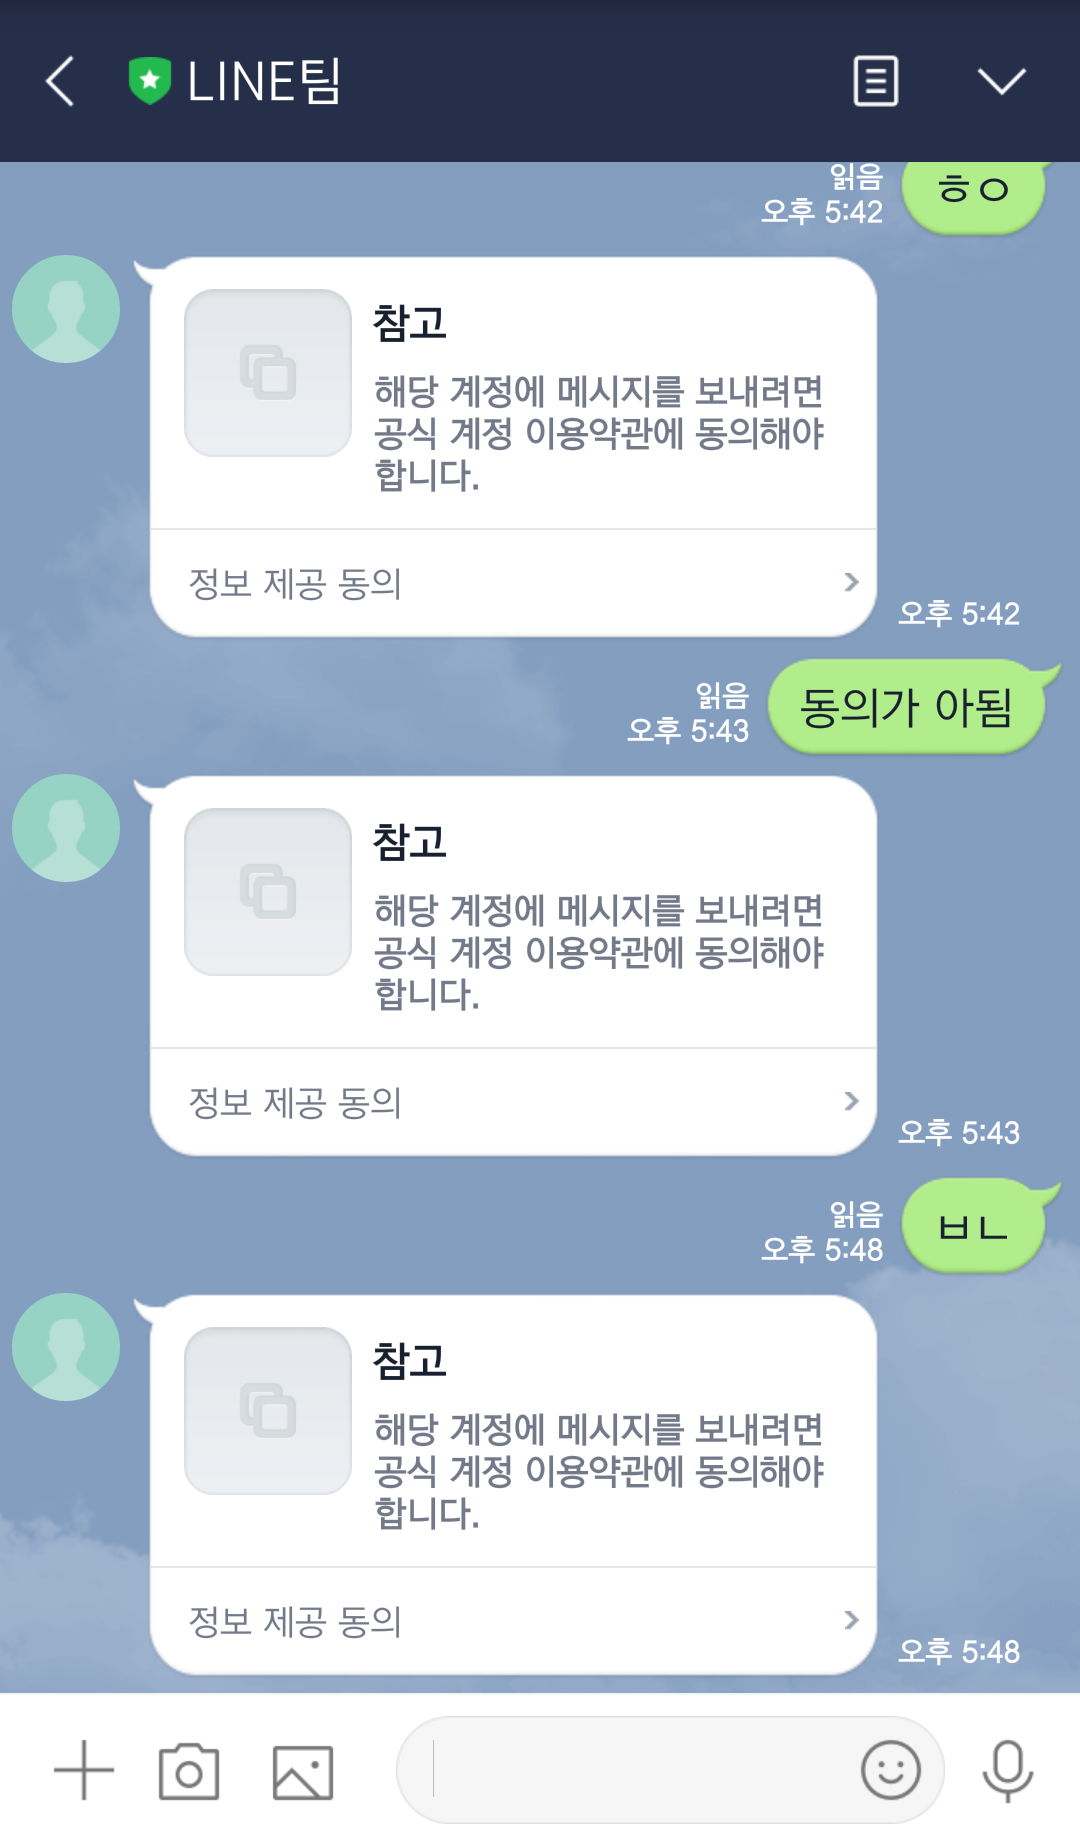
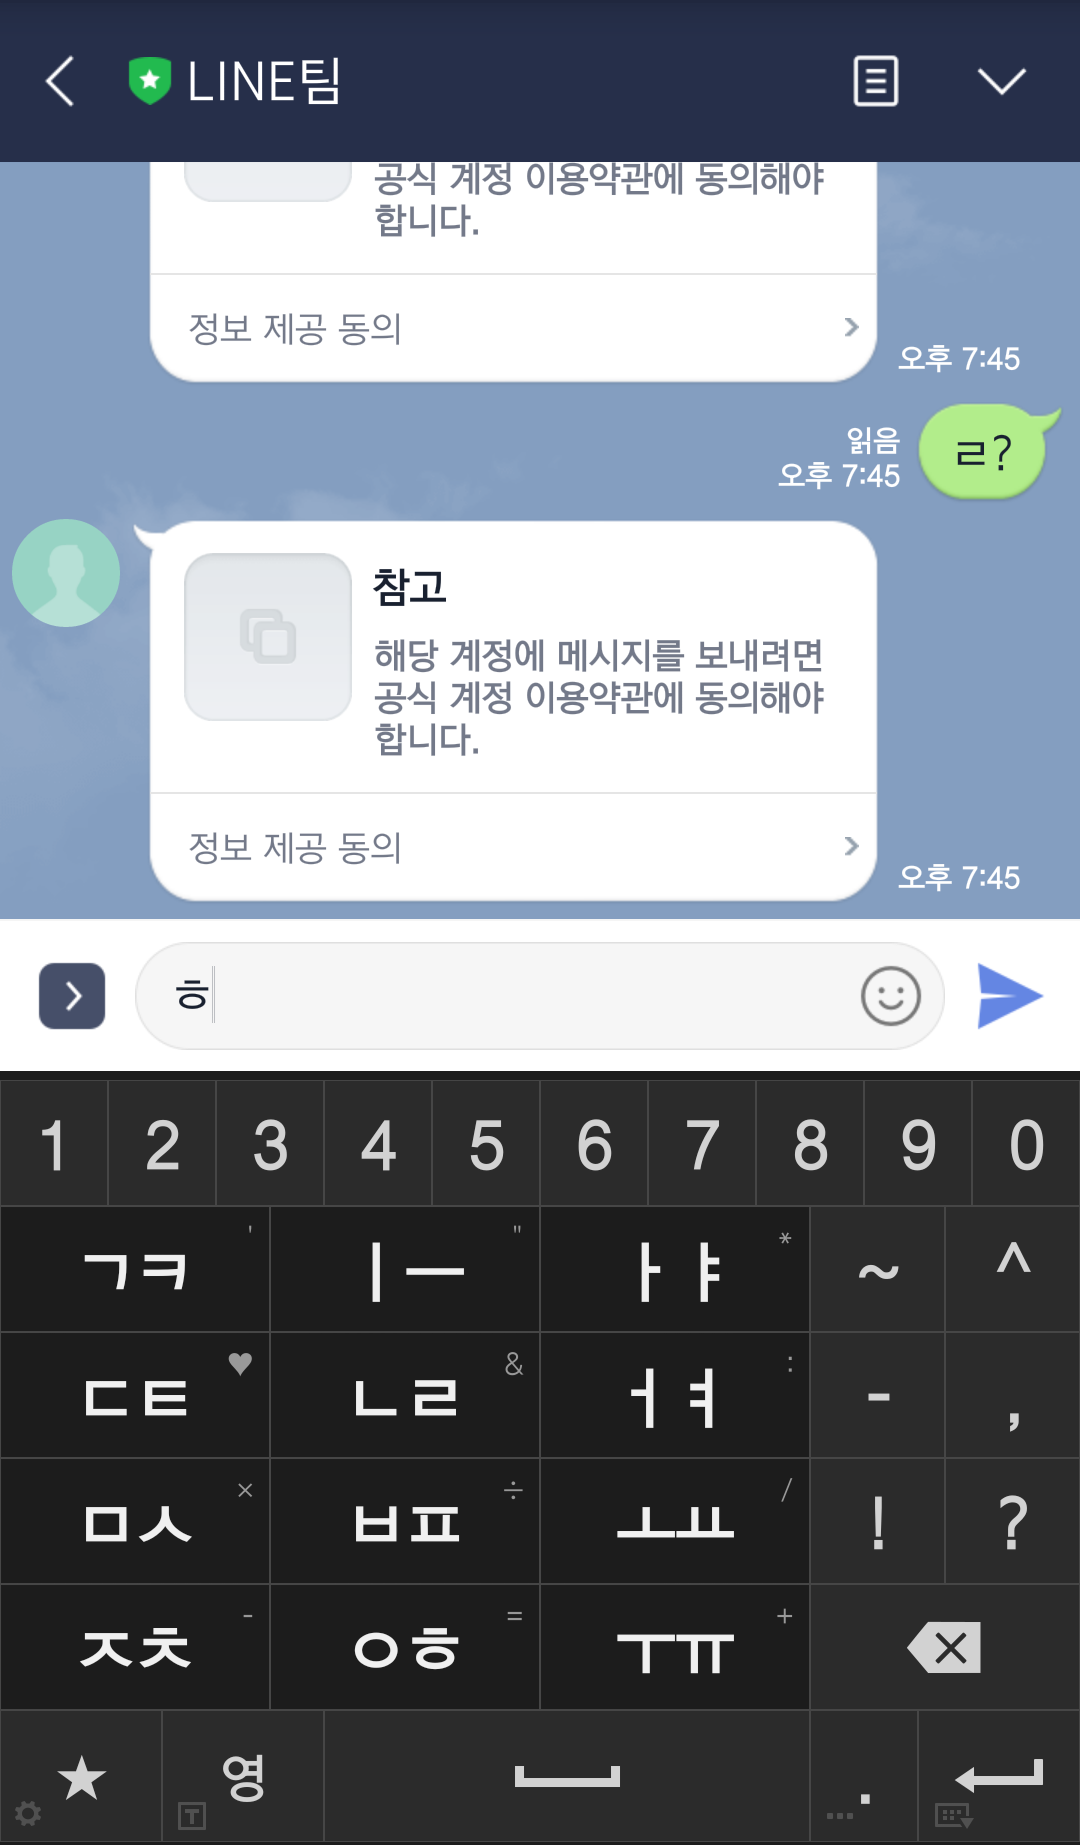
200805 line clone

diff --git a/css/screens/chatroom.css b/css/screens/chatroom.css
@@ -1,3 +1,121 @@
 #chat-screen {
   background-color: skyblue;
+  height: 11000vh;
+}
+
+#chat-screen .status-bar {
+  z-index: 2;
+}
+#chat-screen .alt-header {
+  z-index: 1;
+}
+
+.main-chat {
+  padding-top: 100px;
+  display: flex;
+  flex-direction: column;
+  align-items: center;
+}
+
+.chat__timestamp {
+  background-color: rgba(0, 0, 0, 0.3);
+  padding: 10px 15px;
+  border-radius: 20px;
+  margin: 30px;
+  color: white;
+}
+
+.message-row {
+  width: 100%;
+  display: flex;
+  margin-bottom: 25px;
+}
+.message-row img {
+  border-radius: 50%;
+  width: 50px;
+  height: 50px;
+  margin-right: 15px;
+}
+
+.message__author,
+.message__time {
+  opacity: 0.7;
+}
+.message__info {
+  display: flex;
+  align-items: flex-end;
+}
+.message__bubble {
+  margin-top: 10px;
+  background-color: white;
+  padding: 10px 15px;
+  border-radius: 15px;
+  border-top-left-radius: 0;
+  margin-right: 10px;
+}
+
+.message-row--own {
+  justify-content: flex-end;
+}
+
+.message-row--own .message__bubble {
+  background-color: var(--linegreen);
+  border-radius: 15px;
+  border-top-right-radius: 0;
+  margin-left: 10px;
+}
+.message-row--own .message__info {
+  flex-direction: row-reverse;
+}
+
+.reply {
+  color: var(--lineblue);
+  background-color: white;
+  position: fixed;
+  bottom: 0;
+  width: 100%;
+  display: flex;
+  justify-content: space-between;
+  align-items: center;
+  padding: 10px 0px;
+  box-sizing: border-box;
+}
+.reply button {
+  margin: 0;
+  padding: 0;
+  border: 0;
+  background-color: white;
+  color: var(--lineblue);
+}
+
+.reply .reply__column {
+  display: flex;
+  justify-content: center;
+}
+.reply .reply__column:first-child {
+  width: 10%;
+}
+.reply .reply__column:nth-child(2) {
+  width: 80%;
+  position: relative;
+}
+.reply .reply__column:last-child {
+  width: 10%;
+}
+
+.reply input {
+  width: 100%;
+  border: var(--linegray);
+  border-radius: 20px;
+  padding: 10px;
+  background-color: rgb(241, 241, 241);
+  font-size: 15px;
+  box-sizing: border-box;
+}
+
+.reply .reply__column:nth-child(2) i {
+  position: absolute;
+  top: 13px;
+  right: 10px;
+  opacity: 0.7;
 }

diff --git a/chatroom.html b/chatroom.html
@@ -31,7 +31,7 @@
       </div>
     </div>
 
-    <header class="screen-header">
+    <header class="screen-header screen-header__chatroom">
       <h2 class="screen-header__title">
         <a href="chats.html"><i class="fas fa-chevron-left"> </i></a>
         <span>레이너</span>
@@ -45,6 +45,48 @@
         </span>
       </div>
     </header>
+
+    <main class="main-screen main-chat">
+      <div class="chat__timestamp">
+        오늘
+      </div>
+      <div class="message-row message-row--own">
+        <div class="message-row__content">
+          <div class="message__info">
+            <span class="message__bubble">아니, 이게 누구신가</span>
+            <span class="message__time">오전 2:59</span>
+          </div>
+        </div>
+      </div>
+      <div class="message-row">
+        <img
+          src="https://vignette.wikia.nocookie.net/starcraft/images/a/ad/JimRaynor_SC2_Head2.jpg/revision/latest/scale-to-width-down/328?cb=20151129213613"
+        />
+
+        <div class="message-row__content">
+          <span class="message__author">레이너</span>
+          <div class="message__info">
+            <span class="message__bubble">협동전 한판 돌리지, 친구</span>
+            <span class="message__time">오전 5:48</span>
+          </div>
+        </div>
+      </div>
+    </main>
+
+    <form class="reply">
+      <div class="reply__column">
+        <i class="fas fa-chevron-right fa-lg"></i>
+      </div>
+      <div class="reply__column">
+        <input type="text" placeholder="메시지를 입력하세요" />
+        <i class="far fa-smile fa-lg"></i>
+      </div>
+      <div class="reply__column">
+        <button>
+          <i class="fas fa-caret-right fa-3x"></i>
+        </button>
+      </div>
+    </form>
 
     <!-- script는 항상 body 닫기 직전에 -->
     <script src="https://kit.fontawesome.com/a6b6bc5f72.js"></script>

diff --git a/css/components/nav-bar.css b/css/components/nav-bar.css
@@ -20,8 +20,21 @@
   position: relative;
 }
 
+@keyframes notificationAnimation {
+  0% {
+    transform: none;
+  }
+  50% {
+    transform: translateY(-5px) rotateY(360deg);
+  }
+  100% {
+    transform: none;
+  }
+}
+
 .nav__notification {
   position: absolute;
+  animation: notificationAnimation 2s ease-in-out infinite;
 }
 
 .nav__ellipsis {
@@ -37,4 +50,29 @@
 .nav__descript {
   margin-top: 5px;
   font-size: 12px;
+}
+
+@keyframes appearBtnAnimation {
+  from {
+    opacity: 0;
+  }
+  to {
+    transform: none;
+    opacity: 1;
+  }
+}
+
+.nav__btn {
+  transform: translateY(70px);
+  animation: appearBtnAnimation 0.5s ease-in-out forwards;
+}
+
+.nav__btn:nth-child(2) {
+  animation-delay: 0.4s;
+}
+.nav__btn:nth-child(3) {
+  animation-delay: 0.8s;
+}
+.nav__btn:last-child {
+  animation-delay: 1.2s;
 }

diff --git a/css/screens/friends.css b/css/screens/friends.css
@@ -1,5 +1,5 @@
 .main-screen {
-  padding: 0px var(--horizontal-space);
+  padding: 85px 22px 0px 22px;
 }
 .friends-screen__channel {
   border-top: var(--linegray);
@@ -7,4 +7,28 @@
 
 .friends-screen__channel-header {
   margin-top: 20px;
+}
+
+@keyframes hideSplashScreen {
+  from {
+    opacity: 1;
+  }
+  to {
+    opacity: 0;
+    visibility: hidden;
+  }
+}
+
+#splash-screen {
+  background-color: var(--linegreen);
+  position: absolute;
+  height: 100vh;
+  width: 100vw;
+  top: 0;
+  display: flex;
+  justify-content: center;
+  align-items: center;
+  font-size: 100px;
+  animation: hideSplashScreen 0.3s ease-in-out forwards;
+  animation-delay: 0.5s;
 }

diff --git a/css/components/screen-header.css b/css/components/screen-header.css
@@ -6,8 +6,11 @@
   padding: var(--horizontal-space);
   text-align: center;
   color: white;
+  top: 20px;
+  position: fixed;
+  width: 100%;
+  box-sizing: border-box;
 }
-
 .screen-header__title {
   font-size: 22px;
 }
@@ -17,4 +20,17 @@
 
 .screen-header__icons i {
   margin-left: 15px;
+}
+
+@keyframes rotateCog {
+  from {
+    transform: none;
+  }
+  to {
+    transform: rotateZ(360deg);
+  }
+}
+
+.screen-header__icons .fa-cog:hover {
+  animation: rotateCog 2s linear infinite;
 }

diff --git a/css/screens/more.css b/css/screens/more.css
@@ -1,3 +1,7 @@
+.more-screen {
+  padding-top: 85px;
+}
+
 .more__contents {
   display: flex;
   justify-content: center;
@@ -27,7 +31,7 @@
 .more__stickers {
   display: flex;
   justify-content: space-between;
-  padding: 30px 25px;
+  padding: 30px;
   border-bottom: var(--linegray);
 }
 .more__stickers span:first-child {

diff --git a/friends.html b/friends.html
@@ -160,6 +160,9 @@
         </li>
       </ul>
     </nav>
+    <div id="splash-screen">
+      <i class="fas fa-comment"></i>
+    </div>
 
     <!-- script는 항상 body 닫기 직전에 -->
     <script src="https://kit.fontawesome.com/a6b6bc5f72.js"></script>

diff --git a/css/screens/timeline.css b/css/screens/timeline.css
@@ -1,7 +1,3 @@
-.timeline__main {
-  margin: 0px 10px;
-}
-
 .timeline__header {
   display: flex;
 }
@@ -16,10 +12,6 @@
   margin-top: 10px;
   font-size: 12px;
   opacity: 0.7;
-}
-
-.timeline__unit {
-  padding: 0px 15px;
 }
 
 .timeline__icons i {

diff --git a/more.html b/more.html
@@ -44,7 +44,7 @@
       </div>
     </header>
 
-    <main>
+    <main class="more-screen">
       <div class="more__contents">
         <div class="more__contents__menu">
           <i class="fas fa-user-plus fa-2x"></i>

diff --git a/timeline.html b/timeline.html
@@ -45,7 +45,7 @@
       </div>
     </header>
 
-    <main>
+    <main class="main-screen">
       <header class="timeline__header">
         <div class="timeline__widget">
           <i class="fas fa-camera fa-3x"></i>

diff --git a/css/components/status-bar.css b/css/components/status-bar.css
@@ -7,6 +7,7 @@
   width: 100%;
   color: rgb(240, 240, 240);
   background-color: black;
+  position: fixed;
 }
 
 .status-bar__column {
